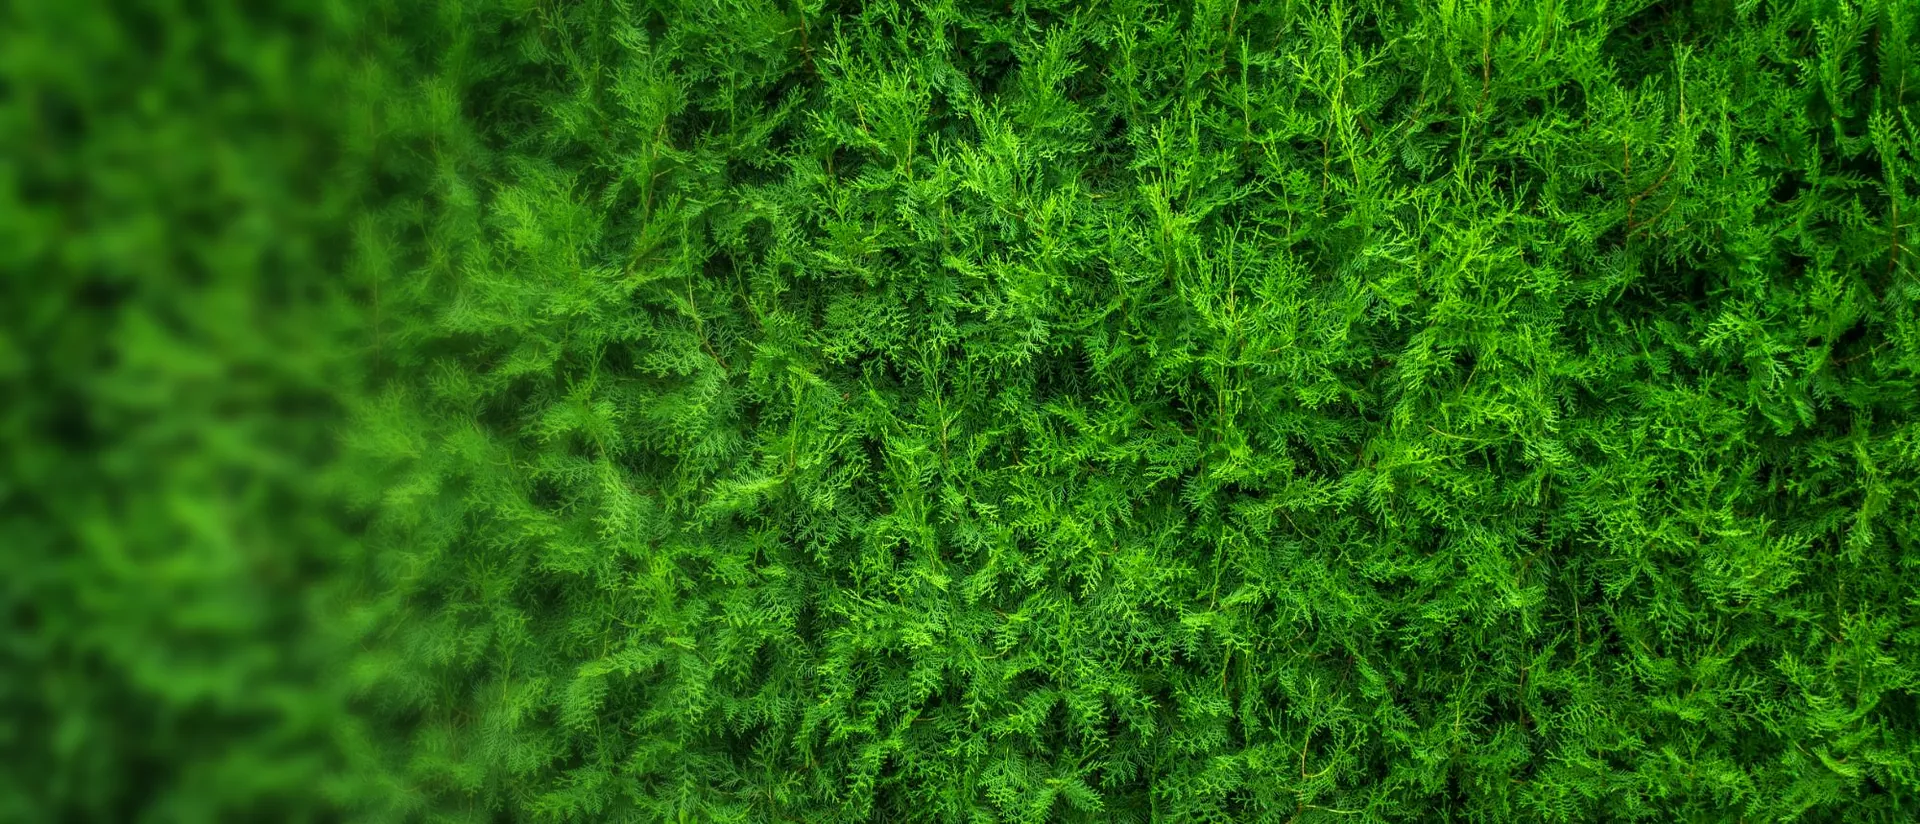
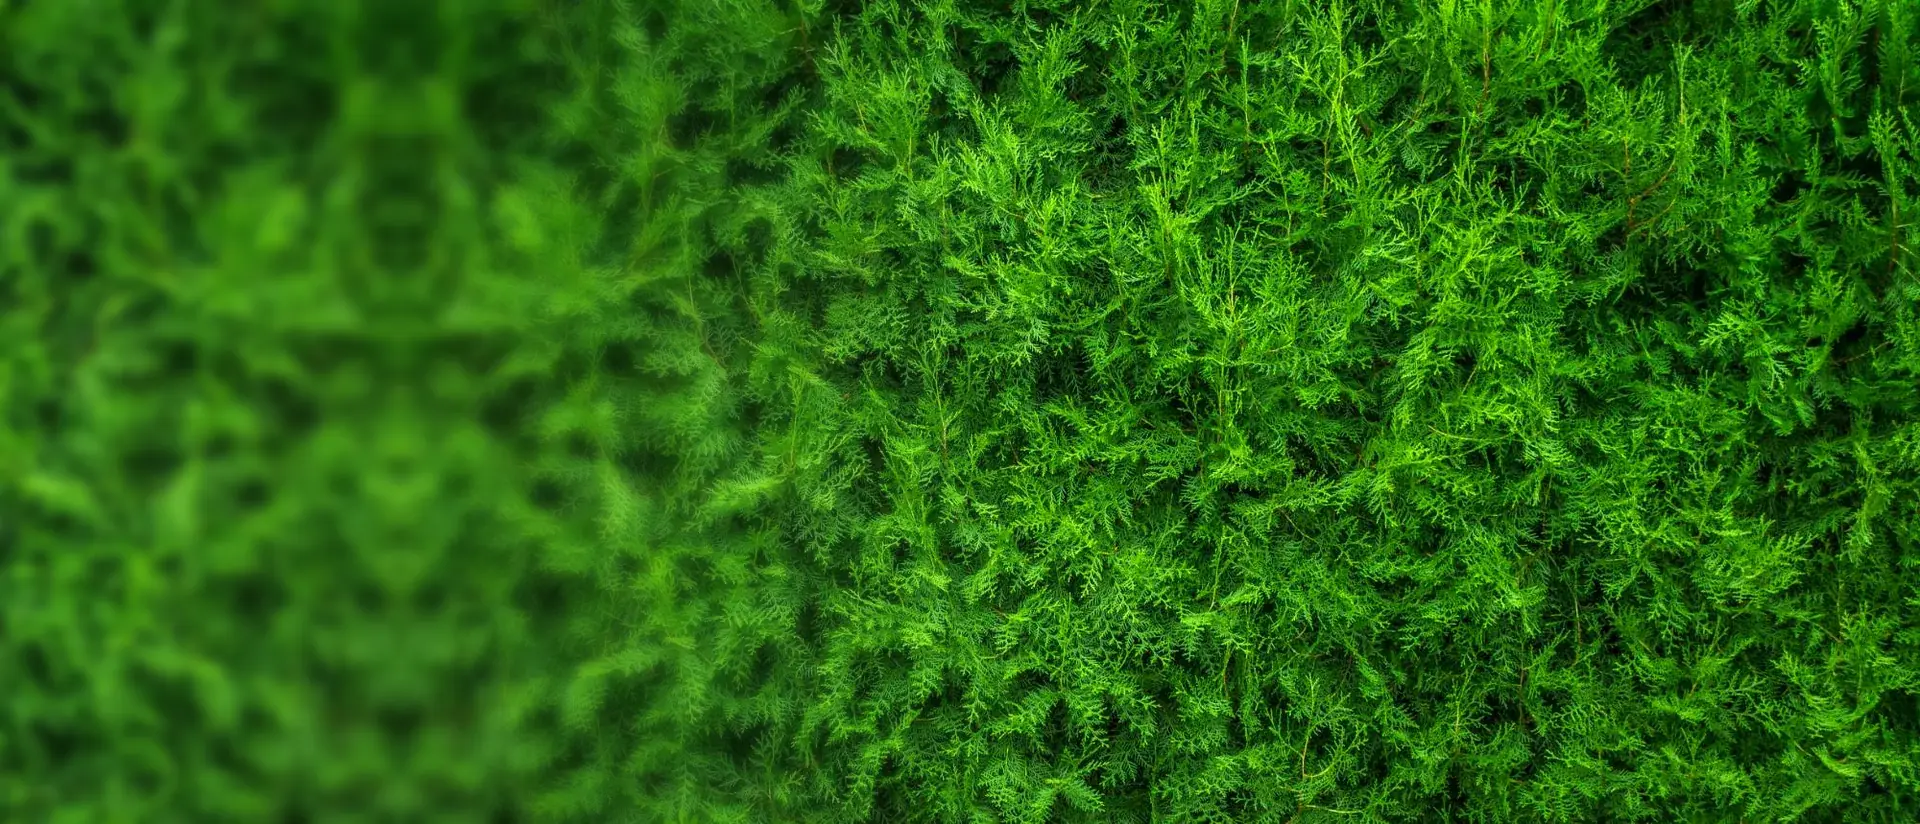
hero: reestructuro texto con pastillas de ubicación y envío + blur más amplio y suave
- Texto del hero ahora comienza por la descripción ("Especies seleccionadas...") y abajo dos pastillas con emojis: 📍 ubicación (Colonia Ensayo, Entre Ríos — a 15 km de Paraná) y 🚚 zonas de envío (Paraná, Aldea Brasilera, Colonia Ensayo, Tierra Alta, Valle María, Crespo, San Benito y aledañas).
- CSS: nueva .shop-hero-meta como grupo de 2 pastillas verde oscuro translúcidas con icono emoji a la izquierda, bordes dorados sutiles y backdrop-filter blur.
- Imagen hero-cercos.webp regenerada: reconstruyo la zona izquierda espejando la zona nítida de la derecha, aplico blur suave (radius 6, antes era 8) y uso una máscara con gradiente que extiende la zona difuminada hasta ~55% del ancho (antes llegaba sólo al 15%). El texto queda sobre fondo mucho más limpio.
- Bump tienda-cercos.css a v=14 y hero-cercos.webp con query ?v=2 para forzar cache busting.

Claude-Session: https://claude.ai/code/session_01MDKbaUcdJFMfnR5oHG2nkL

diff --git a/index.html b/index.html
@@ -28,18 +28,18 @@
   <meta property="og:locale" content="es_AR">
   <meta property="og:title" content="Plantas para cercos vivos en Paraná · Catálogo | Entre Verde">
   <meta property="og:description" content="23 especies de plantas para cercos vivos con envío a todo Argentina. Ligustrina, Fotinia, Tuya, Ciprés, Eugenia y más. Paraná, Entre Ríos.">
-  <meta property="og:image" content="https://www.entreverde.com.ar/images/hero-cercos.webp">
+  <meta property="og:image" content="https://www.entreverde.com.ar/images/hero-cercos.webp?v=2">
   <meta name="twitter:card" content="summary_large_image">
   <meta name="twitter:title" content="Plantas para cercos vivos en Paraná · Entre Verde">
   <meta name="twitter:description" content="23 especies para cerco vivo con envío a todo Argentina. Paraná, Entre Ríos.">
-  <meta name="twitter:image" content="https://www.entreverde.com.ar/images/hero-cercos.webp">
+  <meta name="twitter:image" content="https://www.entreverde.com.ar/images/hero-cercos.webp?v=2">
 
   <link rel="preconnect" href="https://fonts.googleapis.com">
   <link rel="preconnect" href="https://fonts.gstatic.com" crossorigin>
   <link href="https://fonts.googleapis.com/css2?family=Fraunces:ital,opsz,wght@0,9..144,400;0,9..144,500;0,9..144,600;0,9..144,700;1,9..144,400;1,9..144,500;1,9..144,600&family=Manrope:wght@300;400;500;600;700&display=swap" rel="stylesheet">
 
   <link rel="stylesheet" href="css/styles.css?v=78">
-  <link rel="stylesheet" href="css/tienda-cercos.css?v=13">
+  <link rel="stylesheet" href="css/tienda-cercos.css?v=14">
 
   <script type="application/ld+json">
   {
@@ -138,7 +138,7 @@
   </div>
 
   <!-- ══════ HERO · compacto ══════ -->
-  <section class="shop-hero shop-hero-v2" id="hero" style="background-image: url('images/hero-cercos.webp');">
+  <section class="shop-hero shop-hero-v2" id="hero" style="background-image: url('images/hero-cercos.webp?v=2');">
     <div class="shop-hero-overlay" aria-hidden="true"></div>
     <div class="shop-hero-inner container">
       <div class="shop-hero-text">
@@ -147,12 +147,18 @@
           Plantas para<br><em>cercos vivos</em>
         </h1>
         <p class="shop-hero-sub">
-          Nos encontramos en <strong>Colonia Ensayo, Entre Ríos</strong>
-          (15 km de Paraná). Enviamos a Paraná, Aldea Brasilera,
-          Colonia Ensayo, Tierra Alta, Valle María, Crespo, San Benito
-          y zonas aledañas. Especies seleccionadas para formar cercos
-          densos, saludables y duraderos.
+          Especies seleccionadas para formar cercos densos, saludables y duraderos.
         </p>
+        <ul class="shop-hero-meta">
+          <li>
+            <span class="shm-ico" aria-hidden="true">📍</span>
+            <span>Colonia Ensayo, Entre Ríos <em>· a 15 km de Paraná</em></span>
+          </li>
+          <li>
+            <span class="shm-ico" aria-hidden="true">🚚</span>
+            <span>Enviamos a Paraná, Aldea Brasilera, Colonia Ensayo, Tierra Alta, Valle María, Crespo, San Benito y zonas aledañas.</span>
+          </li>
+        </ul>
         <div class="shop-hero-actions">
           <a href="#catalogo" class="shop-cta shop-cta-primary">
             Ver catálogo

diff --git a/css/tienda-cercos.css b/css/tienda-cercos.css
@@ -136,8 +136,40 @@ body.shop-body { background: #0f2320; }
   color: var(--text);
   opacity: 0.9;
   max-width: 540px;
-  margin-bottom: 36px;
+  margin-bottom: 20px;
   line-height: 1.6;
+}
+.shop-hero-v2 .shop-hero-meta {
+  list-style: none;
+  padding: 0;
+  margin: 0 0 32px;
+  max-width: 560px;
+  display: flex;
+  flex-direction: column;
+  gap: 10px;
+}
+.shop-hero-v2 .shop-hero-meta li {
+  display: flex;
+  align-items: flex-start;
+  gap: 10px;
+  padding: 10px 14px;
+  background: rgba(10, 24, 18, 0.45);
+  border: 1px solid rgba(228, 208, 156, 0.18);
+  border-radius: 12px;
+  backdrop-filter: blur(6px);
+  -webkit-backdrop-filter: blur(6px);
+  color: var(--text);
+  font-size: 14px;
+  line-height: 1.45;
+}
+.shop-hero-v2 .shop-hero-meta .shm-ico {
+  font-size: 16px;
+  line-height: 1.35;
+  flex-shrink: 0;
+}
+.shop-hero-v2 .shop-hero-meta em {
+  color: rgba(244, 242, 234, 0.7);
+  font-style: normal;
 }
 .shop-hero-v2 .shop-hero-actions .shop-cta {
   padding: 15px 28px;
